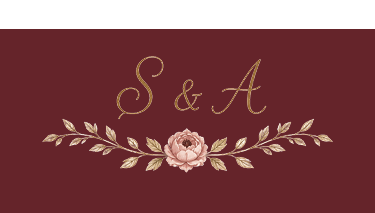
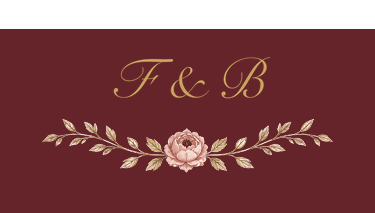
Update wedding to Bilal & Farha: new date, venue, monogram, and remove dress code

diff --git a/client/src/Invitation.jsx b/client/src/Invitation.jsx
@@ -6,12 +6,6 @@ import Reveal from "./Reveal";
 import EnvelopeIntro from "./EnvelopeIntro";
 import RsvpModal from "./RsvpModal";
 
-const DRESS_COLORS = [
-  { name: "Dusty Rose", hex: "#d8a2a4" },
-  { name: "Champagne", hex: "#e3cba8" },
-  { name: "Mauve", hex: "#9d7c86" },
-];
-
 function Divider() {
   return (
     <svg viewBox="0 0 200 20" className="divider">
@@ -77,7 +71,7 @@ export default function Invitation() {
       <div className="card">
         {/* Monogram + wedding concert label */}
         <Reveal as="section" className="monogram-section">
-          <img className="monogram-img" src="/assets/monogram-as.png" alt="A & S monogram" />
+          <img className="monogram-img" src="/assets/monogram-as.png" alt="B & F monogram" />
           <h2 className="section-label">Wedding Concert</h2>
         </Reveal>
 
@@ -102,24 +96,24 @@ export default function Invitation() {
         {/* Date */}
         <Reveal as="section" className="date-hero">
           <img className="floral-side-right float" src="/assets/floral-divider.png" alt="" aria-hidden="true" />
-          <span className="date-day">31</span>
-          <span className="date-month">AUG</span>
+          <span className="date-day">06</span>
+          <span className="date-month">NOV</span>
         </Reveal>
 
         {/* Names + details */}
         <Reveal as="section" className="names-section">
           <h1 className="names">
-            AHMED <span className="amp">&amp;</span> SOHAILA
+            BILAL <span className="amp">&amp;</span> FARHA
           </h1>
           <ul className="details-list">
             <li>
-              <span className="detail-icon">📅</span> 31 August 2026
+              <span className="detail-icon">📅</span> 6 November 2026
             </li>
             <li>
-              <span className="detail-icon">🕖</span> 7:00 PM
+              <span className="detail-icon">🕖</span> 8:00 PM
             </li>
             <li>
-              <span className="detail-icon">📍</span> Loutes Hall, Police Club
+              <span className="detail-icon">📍</span> Venice Hall
             </li>
           </ul>
         </Reveal>
@@ -147,36 +141,12 @@ export default function Invitation() {
           </div>
         </Reveal>
 
-        {/* Dress code */}
-        <Reveal as="section" className="dress-section">
-          <h3 className="section-title">Dress Code</h3>
-          <p className="section-sub">for girls guest</p>
-          <div className="swatch-row">
-            {DRESS_COLORS.map((c) => (
-              <div className="swatch" key={c.name}>
-                <span className="swatch-dot" style={{ background: c.hex }} />
-                <span className="swatch-label">{c.name}</span>
-              </div>
-            ))}
-          </div>
-          <div className="swatch-row single">
-            <div className="swatch">
-              <span className="swatch-dot" style={{ background: "#6d1626" }} />
-              <span className="swatch-label">
-                Wine Red
-                <br />
-                <em>for bridesmaids</em>
-              </span>
-            </div>
-          </div>
-        </Reveal>
-
         {/* Location */}
         <Reveal as="section" className="location-section">
           <h3 className="section-title">Where to Find Us</h3>
           <PinIcon />
           <p className="address">
-            5WPQ+7CG, El Moaskar, Moharam Bek, Alexandria Governorate 5411450
+            Venice Hall, As Soyouf Qebli, Montaza 2, Alexandria Governorate 5515364
           </p>
           <a className="view-location" href={MAPS_URL} target="_blank" rel="noreferrer">
             View Location <span className="arrow">→</span>
@@ -186,7 +156,7 @@ export default function Invitation() {
         {/* RSVP */}
         <Reveal as="section" className="rsvp-section">
           <h3 className="section-title">RSVP</h3>
-          <p className="section-sub">Kindly RSVP by 31 August 2026</p>
+          <p className="section-sub">Kindly RSVP by 6 November 2026</p>
           <button className="rsvp-btn" onClick={() => setRsvpOpen(true)}>
             Confirm Your Presence
           </button>
@@ -205,7 +175,7 @@ export default function Invitation() {
         </Reveal>
 
         {/* Footer */}
-        <Reveal as="img" className="art-full footer-band-img" src="/assets/footer-band.png" alt="S & A" />
+        <Reveal as="img" className="art-full footer-band-img" src="/assets/footer-band.png" alt="F & B" />
       </div>
     </div>
   );

diff --git a/client/src/GroomInvitation.jsx b/client/src/GroomInvitation.jsx
@@ -108,7 +108,7 @@ export default function GroomInvitation() {
         <CornerMarks />
         {/* Monogram + wedding concert label */}
         <Reveal as="section" className="g-monogram-section">
-          <img className="g-monogram-img" src="/assets/monogram-as.png" alt="A & S monogram" />
+          <img className="g-monogram-img" src="/assets/monogram-as.png" alt="B & F monogram" />
           <h2 className="g-section-label">Wedding Concert</h2>
         </Reveal>
 
@@ -127,24 +127,24 @@ export default function GroomInvitation() {
         {/* Date */}
         <Reveal as="section" className="g-date-hero">
           <CrestIcon />
-          <span className="g-date-day">31</span>
-          <span className="g-date-month">AUG</span>
+          <span className="g-date-day">06</span>
+          <span className="g-date-month">NOV</span>
         </Reveal>
 
         {/* Names + details */}
         <Reveal as="section" className="g-names-section">
           <h1 className="g-names">
-            AHMED <span className="g-amp">&amp;</span> SOHAILA
+            BILAL <span className="g-amp">&amp;</span> FARHA
           </h1>
           <ul className="g-details-list">
             <li>
-              <span className="g-detail-icon">📅</span> 31 August 2026
+              <span className="g-detail-icon">📅</span> 6 November 2026
             </li>
             <li>
-              <span className="g-detail-icon">🕖</span> 7:00 PM
+              <span className="g-detail-icon">🕖</span> 8:00 PM
             </li>
             <li>
-              <span className="g-detail-icon">📍</span> Loutes Hall, Police Club
+              <span className="g-detail-icon">📍</span> Venice Hall
             </li>
           </ul>
         </Reveal>
@@ -185,7 +185,7 @@ export default function GroomInvitation() {
           <h3 className="g-section-title">Where to Find Us</h3>
           <PinIcon />
           <p className="g-address">
-            5WPQ+7CG, El Moaskar, Moharam Bek, Alexandria Governorate 5411450
+            Venice Hall, As Soyouf Qebli, Montaza 2, Alexandria Governorate 5515364
           </p>
           <a className="g-view-location" href={MAPS_URL} target="_blank" rel="noreferrer">
             View Location <span className="g-arrow">→</span>
@@ -195,7 +195,7 @@ export default function GroomInvitation() {
         {/* RSVP */}
         <Reveal as="section" className="g-rsvp-section">
           <h3 className="g-section-title">RSVP</h3>
-          <p className="g-section-sub">Kindly RSVP by 31 August 2026</p>
+          <p className="g-section-sub">Kindly RSVP by 6 November 2026</p>
           <button className="g-rsvp-btn" onClick={() => setRsvpOpen(true)}>
             Confirm Your Presence
           </button>
@@ -215,7 +215,7 @@ export default function GroomInvitation() {
 
         {/* Footer */}
         <footer className="g-footer-band">
-          <span className="g-footer-signature">A &amp; S</span>
+          <span className="g-footer-signature">B &amp; F</span>
         </footer>
       </div>
     </div>

diff --git a/server/index.js b/server/index.js
@@ -37,22 +37,22 @@ app.get("/api/stats", (req, res) => {
 
 const clientDist = path.join(__dirname, "..", "client", "dist");
 
-const SITE_URL = process.env.SITE_URL || "https://ahmed-sohaila.pevidea.com";
+const SITE_URL = process.env.SITE_URL || "https://belal-farha.pevidea.com";
 
 const PAGE_META = {
   ahmed: {
-    title: "Ahmed & Sohaila — You're Invited",
-    description: "Join us to celebrate our wedding on 31 August 2026.",
+    title: "Bilal & Farha — You're Invited",
+    description: "Join us to celebrate our wedding on 6 November 2026.",
     image: "/assets/og-groom.png",
   },
   sohela: {
-    title: "Ahmed & Sohaila — You're Invited",
-    description: "Join us to celebrate our wedding on 31 August 2026.",
+    title: "Bilal & Farha — You're Invited",
+    description: "Join us to celebrate our wedding on 6 November 2026.",
     image: "/assets/og-bride.png",
   },
   default: {
-    title: "Ahmed & Sohaila — You're Invited",
-    description: "Join us to celebrate our wedding on 31 August 2026.",
+    title: "Bilal & Farha — You're Invited",
+    description: "Join us to celebrate our wedding on 6 November 2026.",
     image: "/assets/og-bride.png",
   },
 };
@@ -86,7 +86,7 @@ app.get(["/", "/ahmed", "/sohela"], (req, res) => {
   const key = req.path.replace(/\//g, "") || "default";
   const meta = PAGE_META[key] || PAGE_META.default;
   const html = loadIndexHtml()
-    .replace("<title>Ahmed & Sohaila Wedding</title>", `<title>${meta.title}</title>`)
+    .replace("<title>Bilal & Farha Wedding</title>", `<title>${meta.title}</title>`)
     .replace("<!--OG_META-->", metaTags(meta, `${SITE_URL}${req.path}`));
   res.set("Content-Type", "text/html").send(html);
 });

diff --git a/client/src/config.js b/client/src/config.js
@@ -1,8 +1,8 @@
 export const API_BASE = import.meta.env.VITE_API_BASE || "";
-export const WEDDING_DATE_ISO = "2026-08-31T19:00:00+03:00";
+export const WEDDING_DATE_ISO = "2026-11-06T20:00:00+02:00";
 export const VENUE_ADDRESS =
-  "5WPQ+7CG, El Moaskar, Moharam Bek, Alexandria Governorate 5411450";
-export const MAPS_URL = "https://maps.app.goo.gl/HVs7pU8puN1Tmjb86?g_st=aw";
+  "Venice Hall, As Soyouf Qebli, Montaza 2, Alexandria Governorate 5515364";
+export const MAPS_URL = "https://maps.app.goo.gl/PfujjfJE5QoTfH3G9?g_st=aw";
 
 export function trackVisit(defaultRef) {
   const path = window.location.pathname.replace(/\//g, "");

diff --git a/client/src/GroomEnvelopeIntro.jsx b/client/src/GroomEnvelopeIntro.jsx
@@ -18,7 +18,7 @@ export default function GroomEnvelopeIntro({ onOpen, onPlayMusic }) {
         <p className="g-invite-tag">you're invited to...</p>
         <div className={`g-envelope ${phase !== "idle" ? "open" : ""}`}>
           <div className="g-envelope-letter">
-            <span className="g-envelope-letter-mono">A&nbsp;&amp;&nbsp;S</span>
+            <span className="g-envelope-letter-mono">B&nbsp;&amp;&nbsp;F</span>
           </div>
           <div className="g-envelope-flap" />
           <div className="g-envelope-body" />

diff --git a/client/src/EnvelopeIntro.jsx b/client/src/EnvelopeIntro.jsx
@@ -18,7 +18,7 @@ export default function EnvelopeIntro({ onOpen, onPlayMusic }) {
         <p className="invite-tag">you're invited to...</p>
         <div className={`envelope ${phase !== "idle" ? "open" : ""}`}>
           <div className="envelope-letter">
-            <span className="envelope-letter-mono">A&nbsp;&amp;&nbsp;S</span>
+            <span className="envelope-letter-mono">B&nbsp;&amp;&nbsp;F</span>
           </div>
           <div className="envelope-flap" />
           <div className="envelope-body" />

diff --git a/client/index.html b/client/index.html
@@ -9,7 +9,7 @@
       href="https://fonts.googleapis.com/css2?family=Cormorant+Garamond:ital,wght@0,400;0,500;0,600;1,500&family=Great+Vibes&family=Cairo:wght@400;600;700&display=swap"
       rel="stylesheet"
     />
-    <title>Ahmed & Sohaila Wedding</title>
+    <title>Bilal & Farha Wedding</title>
     <!--OG_META-->
   </head>
   <body>
